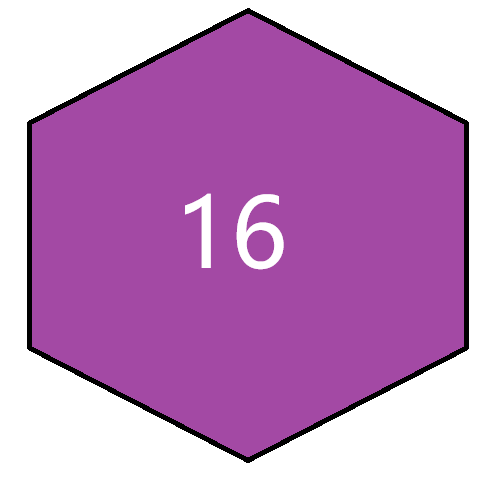
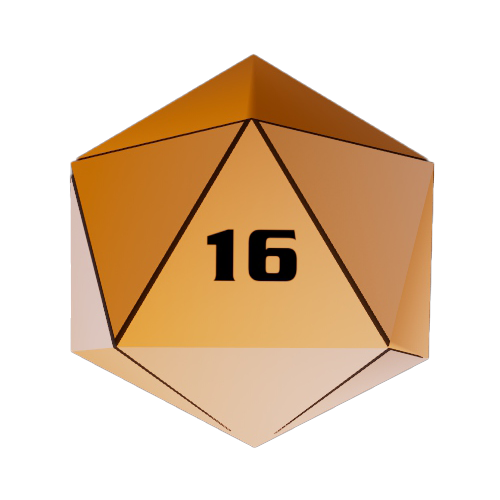
New models, updated roll animation, Better Dice Tray
No more placeholder dice! Roll animation includes a spin, and shows a different image every other frame. Dice tray is unfinished, but is better now.

diff --git a/src/App.js b/src/App.js
@@ -1,6 +1,7 @@
 import './App.css';
 import { useState, useEffect } from 'react';
 
+import DiceTray from "./DiceImg/DiceTray.png";
 //Rollers
 import BakunawaRoller from "./DiceImg/BakunawaRoller.png";
 import BakunawaRollerG from "./DiceImg/BakunawaRollerG.png";
@@ -26,6 +27,7 @@ import D6_three from "./DiceImg/D6_three.png";
 import D6_four from "./DiceImg/D6_four.png";
 import D6_five from "./DiceImg/D6_five.png";
 import D6_six from "./DiceImg/D6_six.png";
+import D6_corner from "./DiceImg/D6_corner.png";
 
 //D20 Images
 import D20_1 from "./DiceImg/d20_1.png";
@@ -48,11 +50,13 @@ import D20_17 from "./DiceImg/d20_17.png";
 import D20_18 from "./DiceImg/d20_18.png";
 import D20_19 from "./DiceImg/d20_19.png";
 import D20_20 from "./DiceImg/d20_20.png";
+import D20_corner from "./DiceImg/d20_corner.png";
 
 //Coin Assets
 import Coin1 from "./DiceImg/Coin1.png";
 import Coin2 from "./DiceImg/Coin2.png";
-import coinSFX from "./DiceImg/coinSFX.wav";
+import CoinMid from "./DiceImg/CoinMid.png";
+import coinSFX from "./DiceImg/coinSFX.MP3";
 import takeCoin from "./DiceImg/takeCoin.MP3";
 import putCoin from "./DiceImg/putCoin.MP3";
 
@@ -77,6 +81,7 @@ function App() {
   const [showSkin, setShowSkin] = useState(false);
   const [statsVisible, setStatsVisible] = useState(false);
   const [shakeEnabled, setShakeEnabled] = useState(true); // State to manage shake functionality
+  const totalDice = d6Count + d20Count + coinCount;
 
   
 
@@ -133,30 +138,36 @@ function App() {
 
   const handleD6CountChange = (change) => {
     if (change < 0 && d6Count > 0) {
-      playSound(takeDice); // Play takeDice sound when D6 count is decreased
+      playSound(takeDice);
+      setD6Count(prev => Math.max(prev + change, 0));
     } else if (change > 0 && totalDice < 10) {
-      playSound(putDice); // Play putDice sound when D6 count is increased
+      playSound(putDice);
+      setD6Count(prev => prev + 1);
     }
-    setD6Count((prev) => Math.max(prev + change, 0)); // Ensure count does not go below 0
   };
+  
 
   const handleD20CountChange = (change) => {
     if (change < 0 && d20Count > 0) {
-      playSound(takeDice); // Play takeDice sound when D20 count is decreased
+      playSound(takeDice);
+      setD20Count(prev => Math.max(prev + change, 0));
     } else if (change > 0 && totalDice < 10) {
-      playSound(putDice); // Play putDice sound when D20 count is increased
+      playSound(putDice);
+      setD20Count(prev => prev + 1);
     }
-    setD20Count((prev) => Math.max(prev + change, 0)); // Ensure count does not go below 0
   };
+  
 
   const handleCoinCountChange = (change) => {
     if (change < 0 && coinCount > 0) {
-      playSound(takeCoin); // Play takeCoin sound when coin count is decreased
+      playSound(takeCoin);
+      setCoinCount(prev => Math.max(prev + change, 0));
     } else if (change > 0 && totalDice < 10) {
-      playSound(putCoin); // Play putCoin sound when coin count is increased
+      playSound(putCoin);
+      setCoinCount(prev => prev + 1);
     }
-    setCoinCount((prev) => Math.max(prev + change, 0)); // Ensure count does not go below 0
   };
+  
   
    // Effect to update dice images immediately when their counts change
    useEffect(() => {
@@ -192,42 +203,59 @@ function App() {
       coinAudio.play();
     }
   
-    let counter = 0;
+    let counter = 0; //amount of image switches
     let finalCoinResults = [];
   
     const rollInterval = setInterval(() => {
-      const d6Results = Array.from({ length: d6Count }, () => Math.floor(Math.random() * 6));
-      const d20Results = Array.from({ length: d20Count }, () => Math.floor(Math.random() * 20));
-      const coinResults = Array.from({ length: coinCount }, () => Math.floor(Math.random() * 2));
+      let d6Results, d20Results, coinResults;
   
-      setD6Images(d6Results.map(i => D6Imgs[i]));
-      setD20Images(d20Results.map(i => D20Imgs[i]));
-      setCoinImages(coinResults.map(i => CoinImgs[i]));
-      finalCoinResults = coinResults;
+      if (counter % 2 === 0) {
+        // When counter is an even number, show certain image
+        d6Results = Array.from({ length: d6Count }, () => D6_corner);
+        d20Results = Array.from({ length: d20Count }, () => D20_corner);
+        coinResults = Array.from({ length: coinCount }, () => CoinMid);
+      } else {
+        // Odd counter, show random
+        d6Results = Array.from({ length: d6Count }, () => D6Imgs[Math.floor(Math.random() * 6)]);
+        d20Results = Array.from({ length: d20Count }, () => D20Imgs[Math.floor(Math.random() * 20)]);
+        coinResults = Array.from({ length: coinCount }, () => CoinImgs[Math.floor(Math.random() * 2)]);
+      }
+  
+      setD6Images(d6Results);
+      setD20Images(d20Results);
+      setCoinImages(coinResults);
+  
+      // Save real coin results for stat tracking
+      if (counter % 2 !== 0) {
+        finalCoinResults = coinResults.map(img => CoinImgs.indexOf(img));
+      }
   
       // Track results and unlocks
-      if (counter === 9) { //1 below the real number, as arrays start from 0
+      //WHEN CHANGING MAX AMOUNT OF IMAGES SWITCHES NEAR THE END OF THIS FUNCTION, CHANGE THIS TOO
+      if (counter === 7) { //1 below the real number, as arrays start from 0. 
         let newStats = { ...stats };
         let newUnlocked = [...unlockedSkins];
   
-        d20Results.forEach((val) => {
+        d20Results.forEach((img) => {
+          const val = D20Imgs.indexOf(img);
           if (val === 19) {
             newStats.nat20 += 1;
-            if (newUnlocked[3] === false) {
-              alert("Woah, you rolled a 20!. You are now the king of the Castle! Castle Roller added to Skins.")
+            if (!newUnlocked[3]) {
+              alert("Woah, you rolled a 20!. You are now the king of the Castle! Castle Roller added to Skins.");
             }
             newUnlocked[3] = true;
           }
           if (val === 0) {
             newStats.nat1 += 1;
-            if (newUnlocked[4] === false) {
-              alert("Aww, you rolled a 1. Have Bakunawi Jr as a consolation. Added to Skins.")
+            if (!newUnlocked[4]) {
+              alert("Aww, you rolled a 1. Have Bakunawi Jr as a consolation. Added to Skins.");
             }
             newUnlocked[4] = true;
           }
         });
   
-        d6Results.forEach((val) => {
+        d6Results.forEach((img) => {
+          const val = D6Imgs.indexOf(img);
           if (val === 0) newStats.d6nat6 += 1;
           if (val === 5) newStats.d6nat1 += 1;
         });
@@ -241,16 +269,14 @@ function App() {
         setUnlockedSkins(newUnlocked);
       }
   
-      counter++;
-      if (counter >= 10) {
+      counter++; //WHEN CHANGING MAX AMOUNT OF IMAGES SWITCHES BELOW, CHANGE ABOVE STAT CHECKER TOO
+      if (counter >= 8) { //change number to control amount of image switched. ENSURE THIS IS AN EVEN NUMBER
         clearInterval(rollInterval);
         setIsRolling(false);
       }
-    }, 100);
+    }, 100); //delay per image switch
   };
-
-  const totalDice = d6Count + d20Count + coinCount; //Limits max rollable dice to 10  
-
+  
   return (
     <div className="App">
       {/* Skins Menu */}
@@ -359,19 +385,9 @@ function App() {
         {isDiceVisible && (
           <div>
             <div className="dice-container">
-              {d6Images.map((img, index) => (
-                <img key={`d6-${animationKey}-${index}`} src={img} alt="D6 Result" className="dice d6-dice" />
-              ))}
-            </div>
-            <div className="dice-container">
-              {d20Images.map((img, index) => (
-                <img key={`d20-${animationKey}-${index}`} src={img} alt="D20 Result" className="dice d20-dice" />
-              ))}
-            </div>
-            <div className="dice-container">
-              {coinImages.map((img, index) => (
-                <img key={`coin-${animationKey}-${index}`} src={img} alt="Coin Flip Result" className="dice coin" />
-              ))}
+            {[...d6Images, ...d20Images, ...coinImages].map((img, index) => (
+              <img key={`all-${animationKey}-${index}`} src={img} alt="Roll Result" className="dice" />
+            ))}
             </div>
           </div>
         )}

diff --git a/src/App.css b/src/App.css
@@ -29,16 +29,23 @@ body, html {
 
 .dice {
   width: 100px;
+  height: auto;
 }
 
 .dice-container {
   display: flex;
   flex-wrap: wrap;
   justify-content: center;
+  align-items: center;
   gap: 10px;
-  max-width: 500px; /* Optional: Limits width for wrapping */
-  margin: 0 auto;
+  padding: 40px;
+  background-image: url('./DiceImg/DiceTray.png');
+  background-size: contain;
+  background-repeat: no-repeat;
+  background-position: center;
+  box-sizing: border-box;
 }
+
 
 @keyframes bounceUp {
   0% { transform: translateY(0); }
@@ -52,11 +59,11 @@ body, html {
 }
 
 @keyframes diceRoll {
-  0% { transform: translateY(0); }
-  10% { transform: translateY(-100px); }
-  50% { transform: translateY(0); }
-  70% { transform: translateY(-20px); }
-  100% { transform: translateY(0); }
+  0% { transform: translateY(0) rotate(0deg); }
+  30% { transform: translateY(-150px) rotate(90deg); }
+  50% { transform: translateY(0) rotate(180deg); }
+  70% { transform: translateY(-20px) rotate(27deg); }
+  100% { transform: translateY(0) rotate(360deg); }
 }
 
 @keyframes spawnDice {
